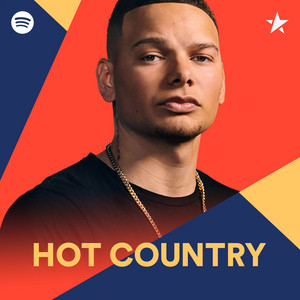
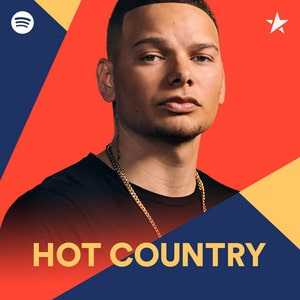
lighter imgs

diff --git a/src/views/home-page.vue b/src/views/home-page.vue
@@ -11,8 +11,8 @@
       <button @click.stop="this.$router.push('/station')" class="btn-get-started">Get started</button>
     </div>
 
-    <img class="desktop-img" src="../assets/img/landing-page.png" alt="">
-    <img class="mobile-img" src="../assets/img/mobile-landing-image.png" alt="">
+    <img class="desktop-img" src="../assets/img/landing-page-min.png" alt="">
+    <img class="mobile-img" src="../assets/img/mobile-landing-image-min.png" alt="">
 
   </section>
 

diff --git a/src/assets/styles/cmps/_home-page.scss b/src/assets/styles/cmps/_home-page.scss
@@ -5,7 +5,7 @@
     // background-size: cover;
     // background-position: right bottom;
     background-color: $clr07;
-    background-image: url('../img/lp-bg3.png');
+    background-image: url('../img/lp-bg3-min.png');
     background-size: cover;
     background-position: bottom;
     overflow: hidden;

diff --git a/src/assets/styles/cmps/_search-category-card.scss b/src/assets/styles/cmps/_search-category-card.scss
@@ -18,6 +18,9 @@
         bottom: 0;
         right: 0;
         transform: rotate(35deg) translate(18%, -2%);
+        background-color: rgba(78, 78, 78, 0.308);
+        border-radius: 8px;
+
 
         img {
             aspect-ratio: 1;
